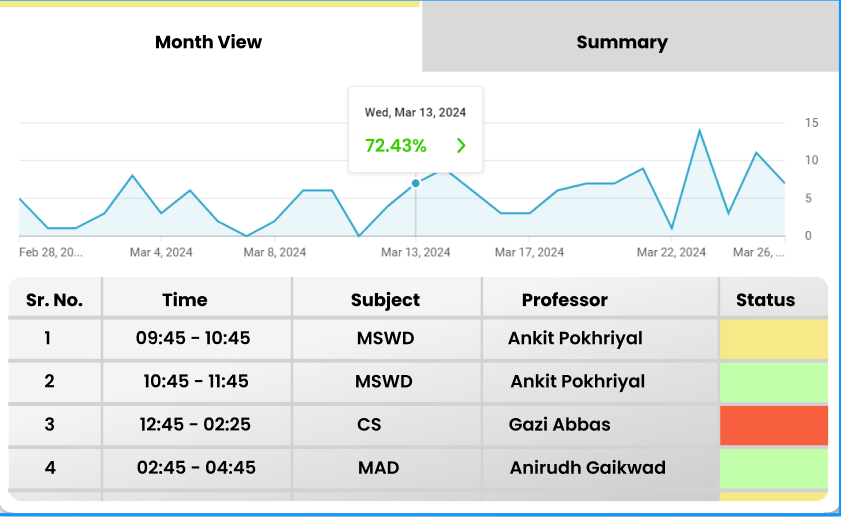
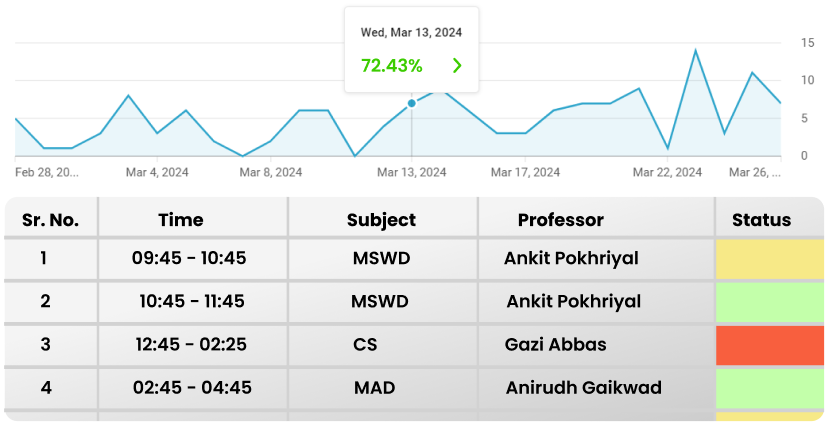
Update UI

diff --git a/app/templates/about.html b/app/templates/about.html
@@ -6,6 +6,9 @@
     <title>About CHIMS</title>
     <link rel="stylesheet" href="../static/css/main.css">
     <link rel="stylesheet" href="../static/css/about.css">
+    <link rel="preconnect" href="https://fonts.googleapis.com">
+    <link rel="preconnect" href="https://fonts.gstatic.com" crossorigin>
+    <link href="https://fonts.googleapis.com/css2?family=Josefin+Sans:ital,wght@0,100..700;1,100..700&family=Noto+Sans:ital,wght@0,100..900;1,100..900&family=Ubuntu:ital,wght@0,300;0,400;0,500;0,700;1,300;1,400;1,500;1,700&display=swap" rel="stylesheet">
 </head>
 <body>
 
@@ -59,7 +62,7 @@
             <h2>Our Team</h2>
             <div class="about-box grey-bg">
                 <ul>
-                    <li><strong>Akshit Sanghvi:</strong>A final-year student with a strong background in machine learning and web development. Akshat's expertise in creating intelligent systems has been pivotal in developing the core functionalities of CHIMS.</li>
+                    <li><strong>Akshat Sanghvi:</strong>A final-year student with a strong background in machine learning and web development. Akshat's expertise in creating intelligent systems has been pivotal in developing the core functionalities of CHIMS.</li>
                     <li><strong>Mansi:</strong> A dedicated professional with a keen interest in educational technology. Mansi's insights into the needs of students and educators have helped shape the user-centric design of CHIMS.</li>
                     <li><strong>Kanika:</strong> With a background in software engineering, Kanika has played a crucial role in ensuring the robustness and reliability of the CHIMS platform.</li>
                     <li><strong>Nakul:</strong> A tech enthusiast with a flair for innovation. Nakul's contributions have been instrumental in incorporating cutting-edge features into CHIMS.</li>

diff --git a/app/templates/profile.html b/app/templates/profile.html
@@ -7,6 +7,9 @@
     <link rel="stylesheet" href="../static/css/main.css">
     <link rel="stylesheet" href="../static/css/profile.css">
     <link rel="stylesheet" href="../static/css/dashboard.css">
+    <link rel="preconnect" href="https://fonts.googleapis.com">
+    <link rel="preconnect" href="https://fonts.gstatic.com" crossorigin>
+    <link href="https://fonts.googleapis.com/css2?family=Josefin+Sans:ital,wght@0,100..700;1,100..700&family=Noto+Sans:ital,wght@0,100..900;1,100..900&family=Ubuntu:ital,wght@0,300;0,400;0,500;0,700;1,300;1,400;1,500;1,700&display=swap" rel="stylesheet">
     <script>
         function showPopup(action) {
             alert("Looking for faculties with " + action + " tag...");
@@ -99,8 +102,8 @@
                 <button onclick="showPopup('Power BI')">Power BI</button>
             </div>
          <div class="action-buttons">
-                <button onclick="alert('Contact requested)">Request Contact</button>
-                <button onclick="openContactForm()">Send Message</button>
+                <button onclick="alert('Contact requested')">Request Contact</button>
+                <button onclick="{{ url_for('resources') }}">Send Message</button>
             </div>
         </div>
     </div>

diff --git a/app/templates/resources.html b/app/templates/resources.html
@@ -6,6 +6,9 @@
     <title>Resources</title>
     <link rel="stylesheet" href="../static/css/main.css">
     <link rel="stylesheet" href="../static/css/resources.css">
+    <link rel="preconnect" href="https://fonts.googleapis.com">
+    <link rel="preconnect" href="https://fonts.gstatic.com" crossorigin>
+    <link href="https://fonts.googleapis.com/css2?family=Josefin+Sans:ital,wght@0,100..700;1,100..700&family=Noto+Sans:ital,wght@0,100..900;1,100..900&family=Ubuntu:ital,wght@0,300;0,400;0,500;0,700;1,300;1,400;1,500;1,700&display=swap" rel="stylesheet">
     <script src="../static/js/resources.js" defer></script>
 </head>
 <body>

diff --git a/app/templates/login.html b/app/templates/login.html
@@ -4,6 +4,9 @@
     <meta charset="UTF-8">
     <meta name="viewport" content="width=device-width, initial-scale=1.0">
     <title>University Login</title>
+    <link rel="preconnect" href="https://fonts.googleapis.com">
+    <link rel="preconnect" href="https://fonts.gstatic.com" crossorigin>
+    <link href="https://fonts.googleapis.com/css2?family=Josefin+Sans:ital,wght@0,100..700;1,100..700&family=Noto+Sans:ital,wght@0,100..900;1,100..900&family=Ubuntu:ital,wght@0,300;0,400;0,500;0,700;1,300;1,400;1,500;1,700&display=swap" rel="stylesheet">
     <link rel="stylesheet" href="../static/css/login.css">
 </head>
 <body>

diff --git a/app/templates/analytics.html b/app/templates/analytics.html
@@ -7,6 +7,9 @@
     <link rel="stylesheet" href="../static/css/main.css">
     <link rel="stylesheet" href="../static/css/analytics.css">
     <script src="../static/js/analytics.js"></script>
+    <link rel="preconnect" href="https://fonts.googleapis.com">
+    <link rel="preconnect" href="https://fonts.gstatic.com" crossorigin>
+    <link href="https://fonts.googleapis.com/css2?family=Josefin+Sans:ital,wght@0,100..700;1,100..700&family=Noto+Sans:ital,wght@0,100..900;1,100..900&family=Ubuntu:ital,wght@0,300;0,400;0,500;0,700;1,300;1,400;1,500;1,700&display=swap" rel="stylesheet">
 </head>
 <body>
     <br>

diff --git a/app/templates/fees.html b/app/templates/fees.html
@@ -7,6 +7,9 @@
     <link rel="stylesheet" href="../static/css/main.css">
     <link rel="stylesheet" href="../static/css/fees.css">
     <script src="../static/js/fees.js" defer></script>
+    <link rel="preconnect" href="https://fonts.googleapis.com">
+    <link rel="preconnect" href="https://fonts.gstatic.com" crossorigin>
+    <link href="https://fonts.googleapis.com/css2?family=Josefin+Sans:ital,wght@0,100..700;1,100..700&family=Noto+Sans:ital,wght@0,100..900;1,100..900&family=Ubuntu:ital,wght@0,300;0,400;0,500;0,700;1,300;1,400;1,500;1,700&display=swap" rel="stylesheet">
 </head>
 <body>
     <br>

diff --git a/app/templates/dashboard.html b/app/templates/dashboard.html
@@ -6,6 +6,9 @@
     <title>Dashboard</title>
     <link rel="stylesheet" href="../static/css/main.css">
     <link rel="stylesheet" href="../static/css/dashboard.css">
+    <link rel="preconnect" href="https://fonts.googleapis.com">
+    <link rel="preconnect" href="https://fonts.gstatic.com" crossorigin>
+    <link href="https://fonts.googleapis.com/css2?family=Josefin+Sans:ital,wght@0,100..700;1,100..700&family=Noto+Sans:ital,wght@0,100..900;1,100..900&family=Ubuntu:ital,wght@0,300;0,400;0,500;0,700;1,300;1,400;1,500;1,700&display=swap" rel="stylesheet">
 </head>
 <body>
     

diff --git a/app/static/css/analytics.css b/app/static/css/analytics.css
@@ -10,6 +10,8 @@ body {
     background-color: #f7f7f7;
     overflow-y: auto;
     height: 100vh;
+    justify-content: center;
+    text-align: center;
 }
 
 .container {
@@ -58,6 +60,8 @@ body {
 
 /* Content Section */
 .content {
+    margin-left: 220px;
+    max-width: 70%;
     flex-grow: 1;
     padding: 20px;
     background-color: #eaeef3;
@@ -113,7 +117,7 @@ body {
 }
 
 .graph-section img {
-    width: 100%;
+    width: 70%;
     height: auto;
     margin-top: 20px;
 }

diff --git a/app/static/css/main.css b/app/static/css/main.css
@@ -6,8 +6,6 @@
 }
 body {
     background: linear-gradient(120deg, #F7F7F7 0%, #D6D3D3 100%);
-    /* background-color: #d8dfe6; */
-
 }
 
 .icon {
@@ -46,6 +44,7 @@ body {
     justify-items: center;
     justify-content: center;
     text-align: center;
+    margin-bottom: 80px;
 }
 
 

diff --git a/app/static/css/resources.css b/app/static/css/resources.css
@@ -10,7 +10,7 @@ body {
 
 .container {
     width: 80%;
-    background: rgba(201, 201, 201, 0.795);
+    background: #eaeef3ba;
     padding: 20px;
     margin: 0 auto;
     box-shadow: 0 0 10px rgba(0, 0, 0, 0.1);

diff --git a/app/static/css/about.css b/app/static/css/about.css
@@ -42,6 +42,8 @@ nav ul li a {
 
 main {
     padding: 20px 40px;
+    max-width: 70%;
+    margin: 0 auto;
 }
 
 h2 {
